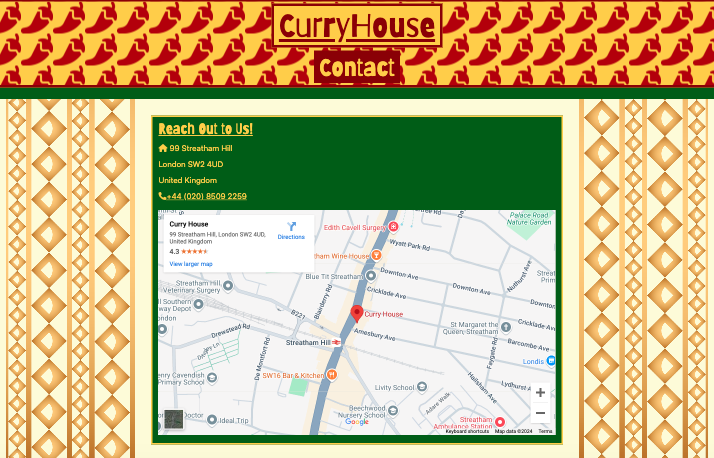
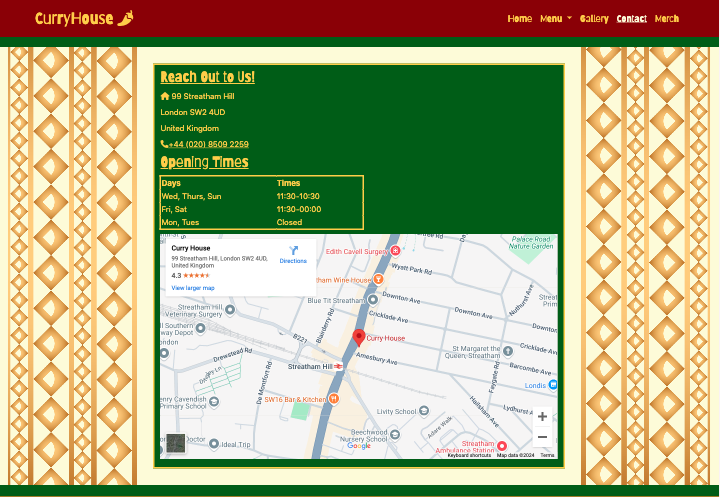
Add opening times table to contact page

diff --git a/contact.html b/contact.html
@@ -96,8 +96,28 @@
                     <h5><i class="fa-solid fa-house"></i> 99 Streatham Hill</h5>
                     <h5>London SW2 4UD</h5>
                     <h5>United Kingdom</h5>
-                    <h5><i class="fa-solid fa-phone"></i><a href="tel:+44 (020) 8509 2259">+44 (020) 8509 2259</a></h5>
+                    <h5><i class="fa-solid fa-phone"></i><a href="tel:+44 (020) 8509 2259">+44 (020) 8509 2259</a>
+                    </h5>
                 </div>
+                <h3>Opening Times</h3>
+                <table class="opening-times">
+                    <tr>
+                        <th>Days</th>
+                        <th>Times</th>
+                    </tr>
+                    <tr>
+                        <td>Wed, Thurs, Sun</td>
+                        <td>11:30-10:30</td>
+                    </tr>
+                    <tr>
+                        <td>Fri, Sat</td>
+                        <td>11:30-00:00</td>
+                    </tr>
+                    <tr>
+                        <td>Mon, Tues</td>
+                        <td>Closed</td>
+                    </tr>
+                </table>
                 <iframe
                     src="https://www.google.com/maps/embed?pb=!1m18!1m12!1m3!1d2487.064967916495!2d-0.12733721429443362!3d51.43860074316656!2m3!1f0!2f0!3f0!3m2!1i1024!2i768!4f13.1!3m3!1m2!1s0x4876050031343fab%3A0xbdebbc0eadab3348!2sCurry%20House!5e0!3m2!1sen!2sde!4v1733752527656!5m2!1sen!2sde"
                     width="600" height="450" style="border:0;" allowfullscreen="" loading="lazy"
@@ -161,7 +181,7 @@
     <!-- Bootstrap JS Script -->
     <script src="https://cdn.jsdelivr.net/npm/bootstrap@5.3.3/dist/js/bootstrap.bundle.min.js"
         integrity="sha384-YvpcrYf0tY3lHB60NNkmXc5s9fDVZLESaAA55NDzOxhy9GkcIdslK1eN7N6jIeHz" crossorigin="anonymous">
-        </script>
+    </script>
 
     <!-- JavaScript code to ensure the Bootstrap mobile navbar collapses when navigating to in-page links -->
     <script>

diff --git a/index.html b/index.html
@@ -226,13 +226,13 @@
             <div id="newsletter" class="row text-center newsletter my-4">
                 <h3 class="">Join our Newsletter!</h3>
 
-                <h5 class="my-4">
+                <h4 class="my-4">
                     <!-- Button trigger modal -->
                     <button type="button" class="btn btn-primary btn-lg" data-bs-toggle="modal"
                         data-bs-target="#exampleModal">
                         Join Us!
                     </button>
-                </h5>
+                </h4>
 
                 <!-- Modal -->
                 <div class="modal fade" id="exampleModal" tabindex="-1" aria-labelledby="exampleModalLabel"

diff --git a/assets/css/style.css b/assets/css/style.css
@@ -430,6 +430,12 @@ h5 span {
     text-decoration: none;
 }
 
+.opening-times {
+    border: 3px solid var(--secondary-color);
+    width: 50%;
+    margin-left: 10px;
+}
+
 /* Error Page */
 
 .error-text {

diff --git a/README.md b/README.md
@@ -8,7 +8,7 @@ The CurryHouse website was developed for a concept restaurant that serves differ
 
 ### 1. Responsive Website & Easy Access to Key Pages
 
-    - User Story: As a first-time visitor to the website I need a simple layout allowing me to access all key pages, making sure all relevant information is readily available without much effort. 
+- User Story: As a first-time visitor to the website I need a simple layout allowing me to access all key pages, making sure all relevant information is readily available without much effort. 
 
     - Acceptance Critera
 
@@ -24,7 +24,7 @@ The CurryHouse website was developed for a concept restaurant that serves differ
 
 ### 2. Interactive Menu with Limited-Time Specials
 
-    - User Story: As an interested customer I want to know current offers, specials, pricing, and any information relevant to the food available depicted in an appetizing and intriguing manner. 
+- User Story: As an interested customer I want to know current offers, specials, pricing, and any information relevant to the food available depicted in an appetizing and intriguing manner. 
 
     - Acceptance Criteria
 
@@ -40,7 +40,7 @@ The CurryHouse website was developed for a concept restaurant that serves differ
 
 ### 3. Merchandise Display for CurryHouse Fans
 
-    - User Story: As a loyal and returning customer I want to be able to support my local CurryHouse by purchasing branded merchandise that aids the restaurant in marketing through exxlusive promo products. 
+- User Story: As a loyal and returning customer I want to be able to support my local CurryHouse by purchasing branded merchandise that aids the restaurant in marketing through exxlusive promo products. 
 
     - Acceptance Criteria 
 
@@ -57,7 +57,7 @@ The CurryHouse website was developed for a concept restaurant that serves differ
 
 ### 4. Newsletter Signup for Restaurant Updates
 
-    - User Story: As an interested returning customer, I want to easily subscribe to the CurryHouse newsletter, so I can receive updates about new menu items, promotions, and events.
+- User Story: As an interested returning customer, I want to easily subscribe to the CurryHouse newsletter, so I can receive updates about new menu items, promotions, and events.
 
     - Acceptance Criteria 
 
@@ -72,7 +72,7 @@ The CurryHouse website was developed for a concept restaurant that serves differ
 
 ### 5. Social Media Links & Contact Information
 
-    - User Story: As a customer, I want easy access to CurryHouse’s social media and contact details, so I can contact the restaurant for reservations, requests, etc.
+- User Story: As a customer, I want easy access to CurryHouse’s social media and contact details, so I can contact the restaurant for reservations, requests, etc.
 
     - Acceptance Critera 
 
@@ -338,6 +338,108 @@ This sub-section depicts the basic layout used for the website (not all pages we
 ##### Desktop
 
 ![Gallery Wireframes Layout Desktop](assets/images/readme-media/basic-gallery-layout-desktop.png)
+
+## Technologies Used 
+
+### Languages 
+
+1. HTML 
+
+    * Page Markup
+
+2. CSS
+
+    * Styling
+
+3. Javascript 
+
+    * Interactive Design (Autoclosing Navigation Bar)
+
+### Frameworks 
+
+1. Bootstrap 
+
+    * Used for basic styling and outline (cards, navbar, carousel, etc.).
+
+### Libraries 
+
+1. Pexels 
+
+    * Used for all basic images on homepage and gallery
+
+2. Google Fonts 
+
+    * Font Styles     
+
+3. Font Awesome 
+
+    * Icons
+
+4. Freepik
+
+    * Title Icon 
+
+5. PNGTree
+
+    * Golden Thai-style Lace
+
+### Platforms 
+
+1. Github
+
+    * Storing code remotely and deployment
+
+2. Gitpod
+
+    * IDE for project developemnt 
+
+### Other Tools 
+
+1. Balsamiq 
+
+    * To develop wireframes 
+
+2. DeepAi
+
+    * All CurryHouse Merch Pictures
+
+3. Compress or Die
+
+    * Image compression and optimization 
+
+4. W3Schools
+
+    * HTML and CSS educational content
+
+5. WebAIM - Contrast Checker
+
+    * Check contrast of website
+
+6. Online PNG Tools
+
+    * Change color of PNG (Font Awesome Icons)
+
+7. WebAIM - WAVE
+
+    * Test accessibility 
+
+8. Google - Google Developer (Lighthouse)
+
+    * For testing
+
+9. Google - Pagespeed 
+
+    * For testing
+
+## Credits 
+
+1. Code Insitute - Boardwalk Games Project
+
+    * Javascript code for autoclosing navbar on mobile and tablet devices.
+
+2. ChatGPT
+
+    * Writing the paragraphs on homepage of website. 
 
 ## Testing 
 
